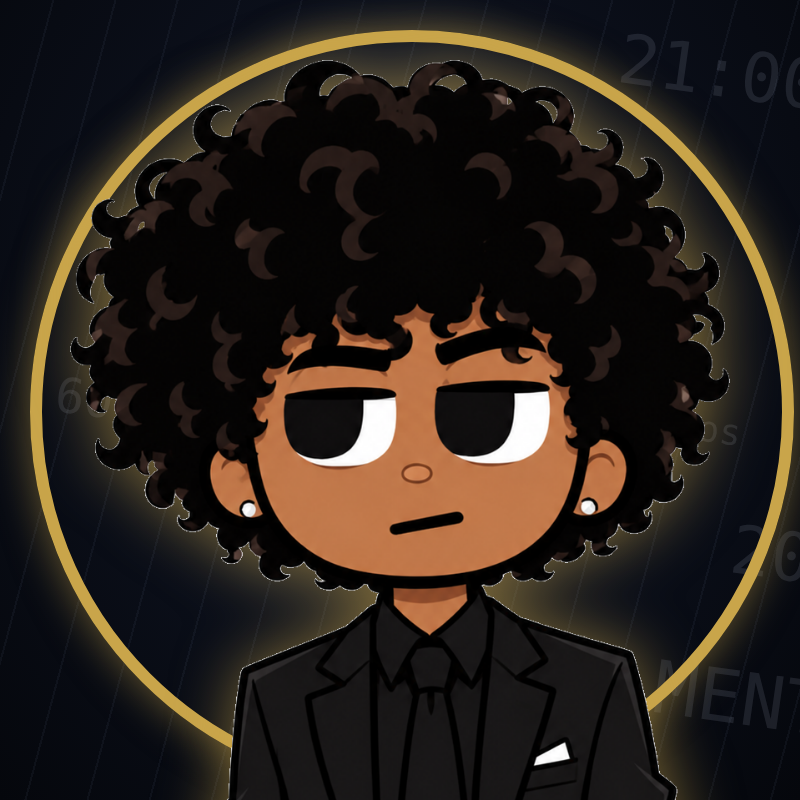
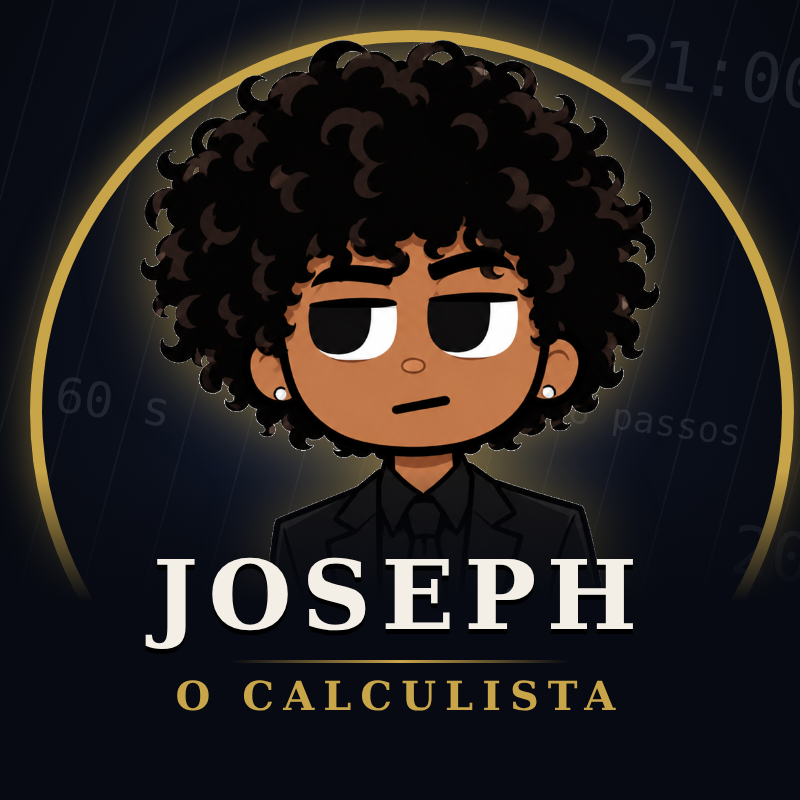
Joseph, o Calculista: nome na foto de perfil
Claude-Session: https://claude.ai/code/session_013a3w4eULc3g6uzQHa5mRW9

diff --git a/outros/joseph-o-calculista/canal/arte.html b/outros/joseph-o-calculista/canal/arte.html
@@ -15,7 +15,11 @@ window.draw=(mode,guide)=>{
  if(mode==='perfil'){ // 800x800
   R.innerHTML=`<div style="position:relative;width:800px;height:800px;overflow:hidden">${bg(800,800,50,40)}
   <div style="position:absolute;left:400px;top:400px;width:740px;height:740px;margin:-370px;border-radius:50%;border:12px solid #c9a54a;box-shadow:0 0 40px rgba(201,165,74,.5)"></div>
-  <img src="../ep01-o-colar/assets/joseph.png" style="position:absolute;left:${400-330}px;top:60px;width:660px;${glow}">
+  <img src="../ep01-o-colar/assets/joseph.png" style="position:absolute;left:${400-260}px;top:40px;width:520px;${glow}">
+  <div style="position:absolute;left:0;right:0;top:470px;height:330px;background:linear-gradient(transparent,#070a12 40%)"></div>
+  <div class="serif" style="position:absolute;top:548px;width:100%;text-align:center;font-size:96px;line-height:1;letter-spacing:10px;color:#f4efe6;text-shadow:0 5px 0 #000">JOSEPH</div>
+  <div style="position:absolute;top:660px;left:230px;width:340px;height:3px;background:linear-gradient(90deg,transparent,#c9a54a,transparent)"></div>
+  <div class="serif" style="position:absolute;top:676px;width:100%;text-align:center;font-size:40px;line-height:1;letter-spacing:9px;color:#c9a54a">O CALCULISTA</div>
 </div>`;
  } else { // banner 2560x1440, safe area 1546x423 centred (507..2053, 508..931)
   R.innerHTML=`<div style="position:relative;width:2560px;height:1440px;overflow:hidden">${bg(2560,1440,62,48)}
